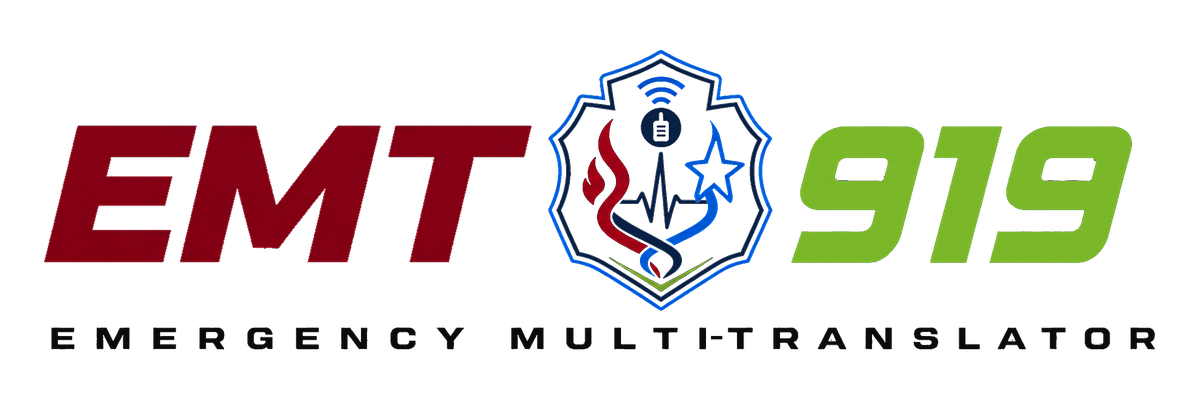
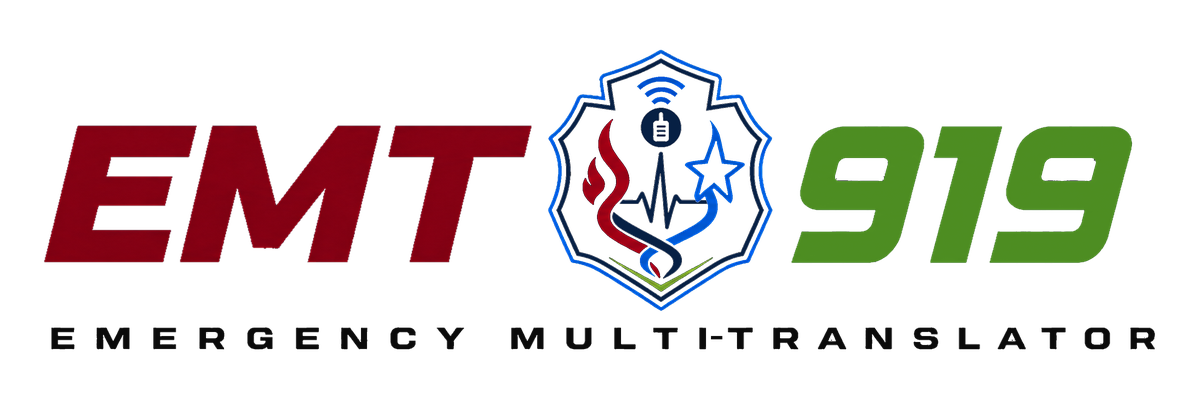
Deepen EMT919 dashboard green

Changed region(s): [[0.6475, 0.3, 0.9558, 0.66]]

diff --git a/brand-assets/EMT919_Responder_Badge_Brand_Kit/README.md b/brand-assets/EMT919_Responder_Badge_Brand_Kit/README.md
@@ -1,6 +1,6 @@
 # EMT919 Responder Badge Brand Kit
 
-Version 1.3 - July 2026
+Version 1.4 - July 2026
 
 This is the approved EMT919 identity package for new public-facing work.
 
@@ -16,7 +16,7 @@ Use the 600-pixel file for compact web placement, the 1800-pixel file for high-d
 
 ### White or light backgrounds
 
-Use `02-Light-Background/EMT919_Light_Transparent_1200x400.png`. This rebuilt version uses signal green for 919, true open counters in both 9s, an open white badge interior, and black for the `Emergency Multi-Translator` descriptor. It is optimized for white dashboards and other pale surfaces.
+Use `02-Light-Background/EMT919_Light_Transparent_1200x400.png`. This rebuilt version uses a restrained forest green for 919, true open counters in both 9s, an open white badge interior, and black for the `Emergency Multi-Translator` descriptor. It is optimized for white dashboards and other pale surfaces.
 
 Do not place the primary white-919 logo on white or pale backgrounds.
 
@@ -60,6 +60,8 @@ Use the branded cover first. Preview on desktop and mobile before publishing bec
 - Burgundy shadow: `#710018`
 - Responder blue: `#0874F9`
 - Signal green: `#7EBB2A`
+- Dashboard forest green: `#4F8F22`
+- Dashboard green shadow: `#2F6F1A`
 - White: `#FFFFFF`
 
 ## Supporting typography
